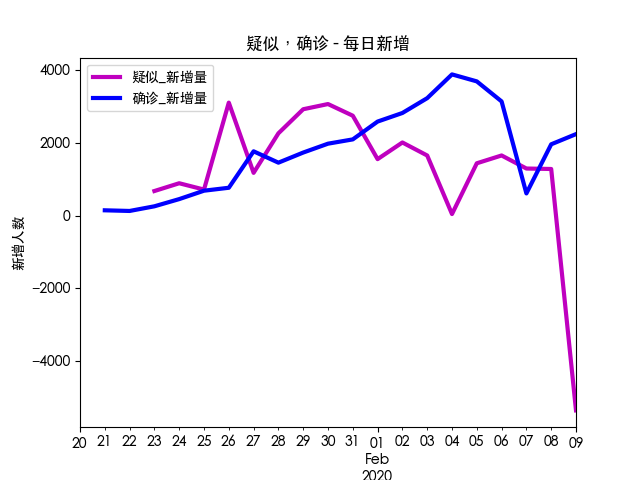
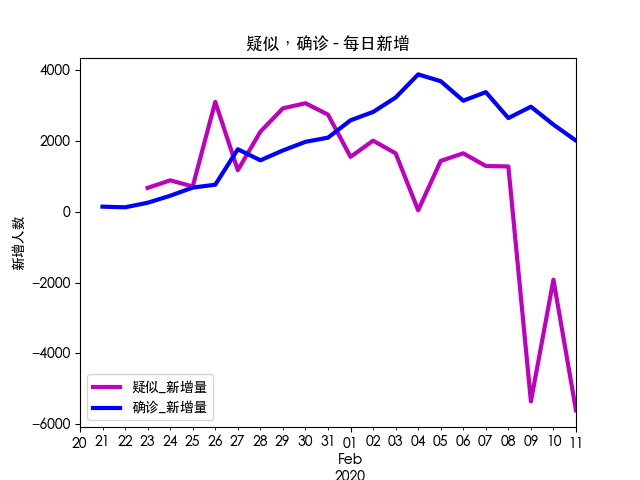
Update for Feb 12

diff --git a/README.md b/README.md
@@ -5,7 +5,7 @@
 
 这是根据卫建委发布的官方数据制作的每日疫情发展趋势图。每日830~930之间根据卫建委发布的最新疫情通报更新。
 
-- 更新时间: **`08:30, 02-10`**
+- 更新时间: **`08:30, 02-12`**
 - [网页地址](https://zire.github.io/pandemic2020/)
 - [Github Repo地址](https://github.com/zire/pandemic2020)
 - 数据来源：[中华人民共和国国家卫生健康委员会卫生应急办公室](http://www.nhc.gov.cn/)
@@ -33,9 +33,11 @@
 
 |    |                                                                                               日期 |    接触 |    观察 |   疑似 |   确诊 |   重症 |   死亡 |   治愈 |
 |---:|---------------------------------------------------------------------------------------------------:|--------:|--------:|-------:|-------:|-------:|-------:|-------:|
-| 20 | <a href='http://www.nhc.gov.cn/xcs/yqfkdt/202002/167a0e01b2d24274b03b2ca961107929.shtml'>02/09</a> | 399,487 | 187,518 | 23,589 | 35,982 |  6,484 |    908 |  3,281 |
-| 19 |   <a href='http://www.nhc.gov.cn/xcs/yqtb/202002/4f28ab5ca87d42d284833df3ccc8d45a.shtml'>02/08</a> | 371,905 | 188,183 | 28,942 | 33,738 |  6,188 |    811 |  2,649 |
-| 18 |   <a href='http://www.nhc.gov.cn/xcs/yqtb/202002/6c305f6d70f545d59548ba17d79b8229.shtml'>02/07</a> | 345,498 | 189,660 | 27,657 | 31,774 |  6,101 |    722 |  2,050 |
+| 22 |   <a href='http://www.nhc.gov.cn/xcs/yqtb/202002/395f075a5f3a411f80335766c65b0487.shtml'>02/11</a> | 451,462 | 185,037 | 16,067 | 44,653 |  8,204 |  1,113 |  4,740 |
+| 21 |   <a href='http://www.nhc.gov.cn/xcs/yqtb/202002/4a611bc7fa20411f8ba1c8084426c0d4.shtml'>02/10</a> | 428,438 | 187,728 | 21,675 | 42,638 |  7,333 |  1,016 |  3,996 |
+| 20 | <a href='http://www.nhc.gov.cn/xcs/yqfkdt/202002/167a0e01b2d24274b03b2ca961107929.shtml'>02/09</a> | 399,487 | 187,518 | 23,589 | 40,171 |  6,484 |    908 |  3,281 |
+| 19 |   <a href='http://www.nhc.gov.cn/xcs/yqtb/202002/4f28ab5ca87d42d284833df3ccc8d45a.shtml'>02/08</a> | 371,905 | 188,183 | 28,942 | 37,198 |  6,188 |    811 |  2,649 |
+| 18 |   <a href='http://www.nhc.gov.cn/xcs/yqtb/202002/6c305f6d70f545d59548ba17d79b8229.shtml'>02/07</a> | 345,498 | 189,660 | 27,657 | 34,546 |  6,101 |    722 |  2,050 |
 | 17 |   <a href='http://www.nhc.gov.cn/xcs/yqtb/202002/3db09278e3034f289841300ed09bd0e1.shtml'>02/06</a> | 314,028 | 186,045 | 26,359 | 31,161 |  4,821 |    636 |  1,540 |
 | 16 |   <a href='http://www.nhc.gov.cn/xcs/yqtb/202002/6b1e029fd22c484281cbc5e73dae98fc.shtml'>02/05</a> | 282,813 | 186,345 | 24,702 | 28,018 |  3,859 |    563 |  1,153 |
 | 15 |   <a href='http://www.nhc.gov.cn/xcs/yqtb/202002/17a03704a99646ffad6807bc806f37a4.shtml'>02/04</a> | 252,154 | 185,555 | 23,260 | 24,324 |  3,219 |    490 |    892 |
@@ -59,9 +61,11 @@
 
 |    |                                                                                               日期 |   接触 |   观察 |   疑似 |   确诊 |   重症 |   死亡 |   治愈 |
 |---:|---------------------------------------------------------------------------------------------------:|-------:|-------:|-------:|-------:|-------:|-------:|-------:|
-| 20 | <a href='http://www.nhc.gov.cn/xcs/yqfkdt/202002/167a0e01b2d24274b03b2ca961107929.shtml'>02/09</a> | 27,582 |   -665 | -5,353 |  2,244 |    296 |     97 |    632 |
-| 19 |   <a href='http://www.nhc.gov.cn/xcs/yqtb/202002/4f28ab5ca87d42d284833df3ccc8d45a.shtml'>02/08</a> | 26,407 | -1,477 |  1,285 |  1,964 |     87 |     89 |    599 |
-| 18 |   <a href='http://www.nhc.gov.cn/xcs/yqtb/202002/6c305f6d70f545d59548ba17d79b8229.shtml'>02/07</a> | 31,470 |  3,615 |  1,298 |    613 |  1,280 |     86 |    510 |
+| 22 |   <a href='http://www.nhc.gov.cn/xcs/yqtb/202002/395f075a5f3a411f80335766c65b0487.shtml'>02/11</a> | 23,024 | -2,691 | -5,608 |  2,015 |    871 |     97 |    744 |
+| 21 |   <a href='http://www.nhc.gov.cn/xcs/yqtb/202002/4a611bc7fa20411f8ba1c8084426c0d4.shtml'>02/10</a> | 28,951 |    210 | -1,914 |  2,467 |    849 |    108 |    715 |
+| 20 | <a href='http://www.nhc.gov.cn/xcs/yqfkdt/202002/167a0e01b2d24274b03b2ca961107929.shtml'>02/09</a> | 27,582 |   -665 | -5,353 |  2,973 |    296 |     97 |    632 |
+| 19 |   <a href='http://www.nhc.gov.cn/xcs/yqtb/202002/4f28ab5ca87d42d284833df3ccc8d45a.shtml'>02/08</a> | 26,407 | -1,477 |  1,285 |  2,652 |     87 |     89 |    599 |
+| 18 |   <a href='http://www.nhc.gov.cn/xcs/yqtb/202002/6c305f6d70f545d59548ba17d79b8229.shtml'>02/07</a> | 31,470 |  3,615 |  1,298 |  3,385 |  1,280 |     86 |    510 |
 | 17 |   <a href='http://www.nhc.gov.cn/xcs/yqtb/202002/3db09278e3034f289841300ed09bd0e1.shtml'>02/06</a> | 31,215 |   -300 |  1,657 |  3,143 |    962 |     73 |    387 |
 | 16 |   <a href='http://www.nhc.gov.cn/xcs/yqtb/202002/6b1e029fd22c484281cbc5e73dae98fc.shtml'>02/05</a> | 30,659 |    790 |  1,442 |  3,694 |    640 |     73 |    261 |
 | 15 |   <a href='http://www.nhc.gov.cn/xcs/yqtb/202002/17a03704a99646ffad6807bc806f37a4.shtml'>02/04</a> | 31,139 | 14,226 |     46 |  3,886 |    431 |     65 |    260 |
@@ -85,9 +89,11 @@
 
 |    |                                                                                               日期 |   接触 |   观察 |   疑似 |   确诊 |   重症 |   死亡 |   治愈 |
 |---:|---------------------------------------------------------------------------------------------------:|-------:|-------:|-------:|-------:|-------:|-------:|-------:|
-| 20 | <a href='http://www.nhc.gov.cn/xcs/yqfkdt/202002/167a0e01b2d24274b03b2ca961107929.shtml'>02/09</a> |   7.4% |  -0.4% | -18.5% |   6.7% |   4.8% |  12.0% |  23.9% |
-| 19 |   <a href='http://www.nhc.gov.cn/xcs/yqtb/202002/4f28ab5ca87d42d284833df3ccc8d45a.shtml'>02/08</a> |   7.6% |  -0.8% |   4.6% |   6.2% |   1.4% |  12.3% |  29.2% |
-| 18 |   <a href='http://www.nhc.gov.cn/xcs/yqtb/202002/6c305f6d70f545d59548ba17d79b8229.shtml'>02/07</a> |  10.0% |   1.9% |   4.9% |   2.0% |  26.6% |  13.5% |  33.1% |
+| 22 |   <a href='http://www.nhc.gov.cn/xcs/yqtb/202002/395f075a5f3a411f80335766c65b0487.shtml'>02/11</a> |   5.4% |  -1.4% | -25.9% |   4.7% |  11.9% |   9.5% |  18.6% |
+| 21 |   <a href='http://www.nhc.gov.cn/xcs/yqtb/202002/4a611bc7fa20411f8ba1c8084426c0d4.shtml'>02/10</a> |   7.2% |   0.1% |  -8.1% |   6.1% |  13.1% |  11.9% |  21.8% |
+| 20 | <a href='http://www.nhc.gov.cn/xcs/yqfkdt/202002/167a0e01b2d24274b03b2ca961107929.shtml'>02/09</a> |   7.4% |  -0.4% | -18.5% |   8.0% |   4.8% |  12.0% |  23.9% |
+| 19 |   <a href='http://www.nhc.gov.cn/xcs/yqtb/202002/4f28ab5ca87d42d284833df3ccc8d45a.shtml'>02/08</a> |   7.6% |  -0.8% |   4.6% |   7.7% |   1.4% |  12.3% |  29.2% |
+| 18 |   <a href='http://www.nhc.gov.cn/xcs/yqtb/202002/6c305f6d70f545d59548ba17d79b8229.shtml'>02/07</a> |  10.0% |   1.9% |   4.9% |  10.9% |  26.6% |  13.5% |  33.1% |
 | 17 |   <a href='http://www.nhc.gov.cn/xcs/yqtb/202002/3db09278e3034f289841300ed09bd0e1.shtml'>02/06</a> |  11.0% |  -0.2% |   6.7% |  11.2% |  24.9% |  13.0% |  33.6% |
 | 16 |   <a href='http://www.nhc.gov.cn/xcs/yqtb/202002/6b1e029fd22c484281cbc5e73dae98fc.shtml'>02/05</a> |  12.2% |   0.4% |   6.2% |  15.2% |  19.9% |  14.9% |  29.3% |
 | 15 |   <a href='http://www.nhc.gov.cn/xcs/yqtb/202002/17a03704a99646ffad6807bc806f37a4.shtml'>02/04</a> |  14.1% |   8.3% |   0.2% |  19.0% |  15.5% |  15.3% |  41.1% |
